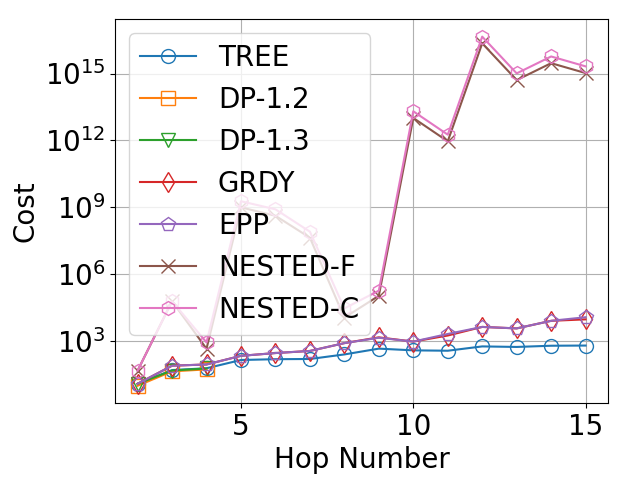
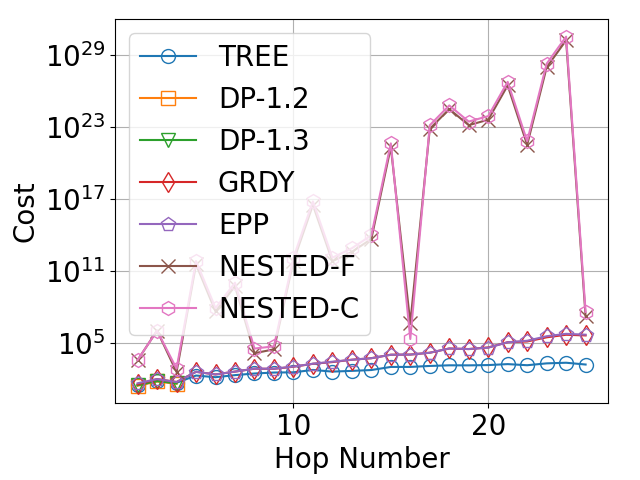
sync

diff --git a/src/eval_path_infocom.py b/src/eval_path_infocom.py
@@ -420,7 +420,7 @@ def test_binary_cost_all(fth, exp_num, gate=qu.GDP_LOSH):
         gate_desc = "L"
 
     cost_cap = 1e5
-    edge_num_range = range(2, 16, 1)
+    edge_num_range = range(2, 26, 1)
     # edge_num_range = range(4, 11, 2)
 
     binary_edge_limit = 4
@@ -567,7 +567,7 @@ def test_binary_cost_all(fth, exp_num, gate=qu.GDP_LOSH):
 
 
 
-def test_binary_succ_all(fth, exp_num, gate=qu.GDP):
+def test_binary_succ_all(fth, exp_num, gate=qu.GDP_LOSH):
     if gate == qu.GDP:
         gate_desc = "P"
     elif gate == qu.GDP_LOSH:
@@ -1780,7 +1780,7 @@ if __name__ == '__main__':
     exp_num = 1
 
     # 3 figures for different fth
-    # test_binary_cost_all(0.9, exp_num)
+    test_binary_cost_all(0.9, exp_num)
     # test_binary_cost_all(0.99, exp_num)
     # test_binary_cost_all(0.9999, exp_num)
 
@@ -1791,9 +1791,9 @@ if __name__ == '__main__':
     # test_binary_succ_all(0.9, exp_num, gate=qu.GDP_LOSL)
 
     # 3 figures for different fth (Werner)
-    test_werner_cost(0.85, exp_num)
-    test_werner_cost(0.9, exp_num)
-    test_werner_cost(0.95, exp_num)
+    # test_werner_cost(0.85, exp_num)
+    # test_werner_cost(0.9, exp_num)
+    # test_werner_cost(0.95, exp_num)
 
     # 3 figures for different noise (Werner)
     # test_werner_succ does not differ much, test_werner_cost is enough
